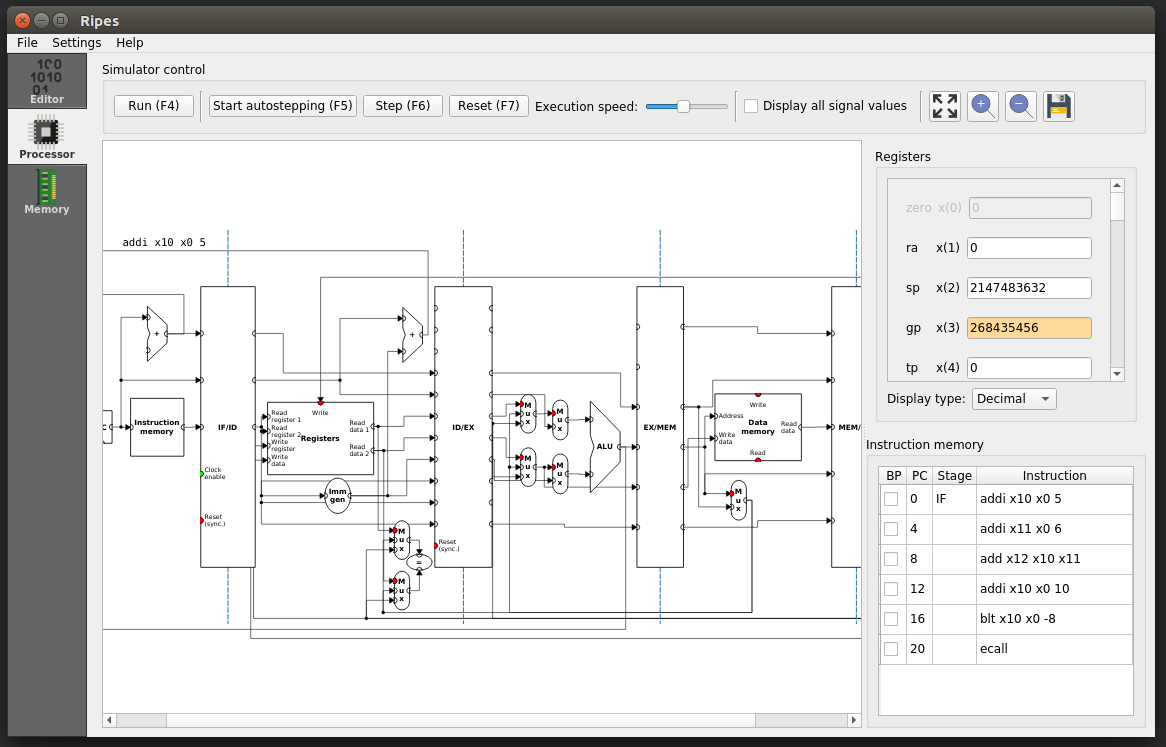
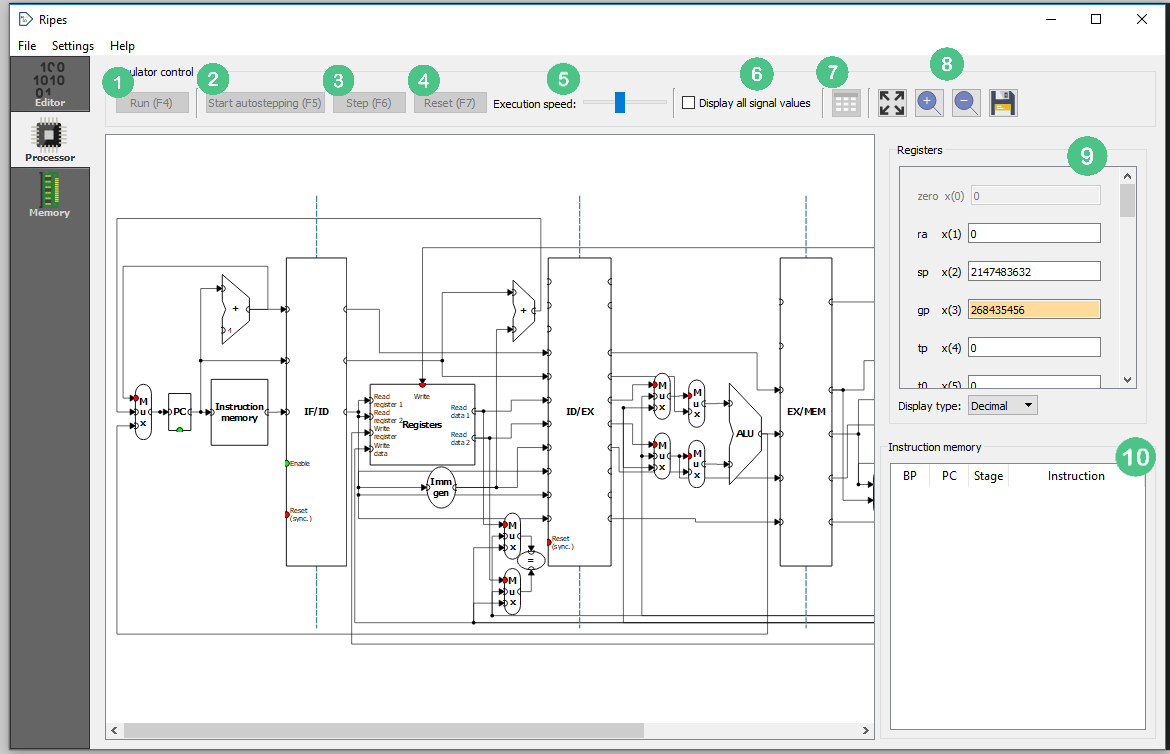
Update README.md

diff --git a/README.md b/README.md
@@ -20,7 +20,7 @@ Ripes is a graphical 5-stage processor pipeline simulator and assembly code edit
   * Real-time assembler for side-by-side comparison of assembly code and (disassembled) binary code
 
 ## Downloading & installation
-No installation is required - all required libraries are packaged with the compiled executable - these are available at the [Releases page](https://github.com/mortbopet/Ripes/releases).  
+Prebuilt applications are available for Linux, Windows & Mac/OSX. No installation is required - all required libraries are packaged with the compiled executable - these are available at the [Releases page](https://github.com/mortbopet/Ripes/releases).  
 **It is recommended to use the *continuous releases*, since they contain all of the most-recent bug-fixes.**
 
 ### Linux
@@ -33,7 +33,7 @@ The AppImage for Linux should be compatible with most Linux distributions.
 For Windows, the C++ runtime library must be available (if not, a msvcp140.dll error will be produced). You most likely already have this installed, but if this is not the case, you download it [here](https://www.microsoft.com/en-us/download/details.aspx?id=48145).
 
 ### Mac/OSX
-*Continuous builds for Mac/OSX are currently not provided*.
+Please note that the Mac/OSX is *mostly untested* and as such, there may be various visual glitches as well as performance issues.
 
 # Usage
 ## Editor
@@ -55,25 +55,26 @@ Switching to the **Processor** tab, you'll be greeted by a datapath picturing a 
 
 Besides the datapath, this tab contains the following elements:
 * Simulator control:
-    * **Step** is equal to activating the clock signal in the circuit. This will clock next-state signals into the registers, and new signals are calculated (propagate through the circuit)
-    * **Autostepping** will automatically step through the program with a speed determined by the execution speed slider. 
-    * **Run** will run the program until a breakpoint is encountered or execution is finished. This will postpone updating the visualized datapath until the break is encountered.
-    * **Reset** resets the simulator, resetting all stages and setting the program counter to point to the first instruction
-* Register view: A list of all registers in the processor, with highlighting for the most-recently used register
-* Instruction memory: A view of the disassembled instructions that are currently loaded in the processor. This view displays which instructions are present in each pipeline stage, as well as breakpoint setting functionality
+    * **(1) Run** will run the program until a breakpoint is encountered or execution is finished. This will postpone updating the visualized datapath until the break is encountered.
+    * **(2) Autostepping** will automatically step through the program with a speed determined by the execution speed slider **(5)**. 
+    * **(3) Step** is equal to activating the clock signal in the circuit. This will clock next-state signals into the registers, and new signals are calculated (propagate through the circuit)
+    * **(4) Reset** resets the simulator, resetting all stages and setting the program counter to point to the first instruction
+* **(6) Display all signal values** will show the underlying output signals for most signals in the datapath
+* **(7) Pipeline table**: see below
+* **(8)** Various buttons are available for zooming & expanding the datapath view
+* **(9)Registers** is a view of the value of all registers in the processor, with highlighting for the most-recently used register
+* **(10) Instruction memory**: A view of the disassembled instructions that are currently loaded in the processor. This view displays which instructions are present in each pipeline stage, as well as breakpoint setting functionality
 Furthermore, the following options are available:
-* **Display all signal values** will show the underlying output signals for most signals in the datapath
-* Various buttons are available for zooming & expanding the datapath view
-* The datapath image can be saved to a file
-* **Pipeline table** will display a pop-up window with the stage information for the current program. The program must be run to propagate the chart
+
+### Pipelining table 
 <p align="center">
     <img src="https://github.com/mortbopet/Ripes/blob/master/resources/ptable.PNG?raw=true"/>
 </p>
+will display a pop-up window with the stage information for the current program. The program must be run to propagate the chart. The pipeline table can be copied and pasted to spreadsheets.
 
-During execution, the instructions will propagate through the datapath, and be visible both above each stage of the pipeline, as well as in the instruction memory view. Furthermore, when the pipeline is stalled or flushed, this will be indicated above a pipeline stage.
 ## Memory
 Selecting the **Memory** tab will show you three different views:
-* **Registers** Is similar to the view presented in the processor tab, giving an overview of the contents of each register
+* Registers - similar to the view presented in the processor tab
 * A memory view, where all parts of the program memory can be inspected. To navigate, one can use the scroll view or select one of the predefined destinations (or to a specific address) via the *Go to* combobox. A label for an address can be saved for future use, via. the *Save address* button. 
 * A list of the most recent memory accesses. Selecting an entry and pressing *Go to selected address* sets the right side memory view to center at the address for the given entry
 
